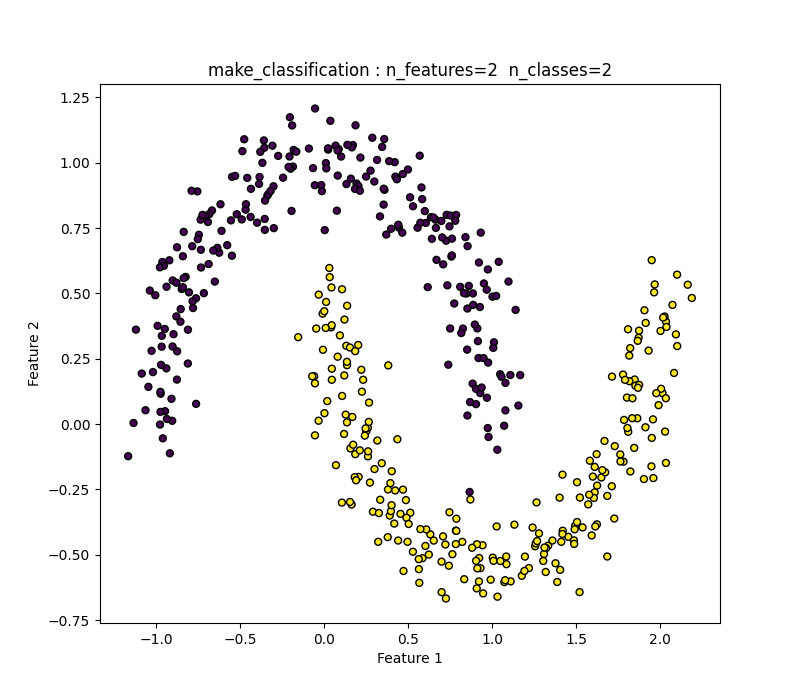
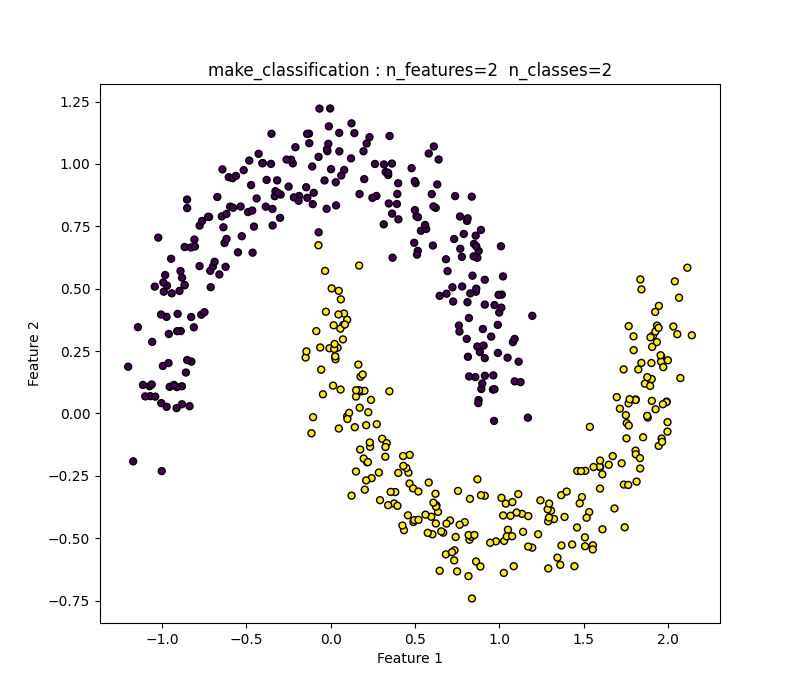
[FIX] add bias

diff --git a/source/svm_qp.py b/source/svm_qp.py
@@ -93,7 +93,7 @@ class QPSVC():
             scores = []
             for x in X:
                 scores.append(sum([a * sv_y * self.K(x, sv) for a, sv_y, sv in zip(self.a, self.sv_y, self.sv)]))
-            scores = np.array(scores)
+            scores = np.array(scores) + self.b
             return scores
 
     def predict(self, X):
